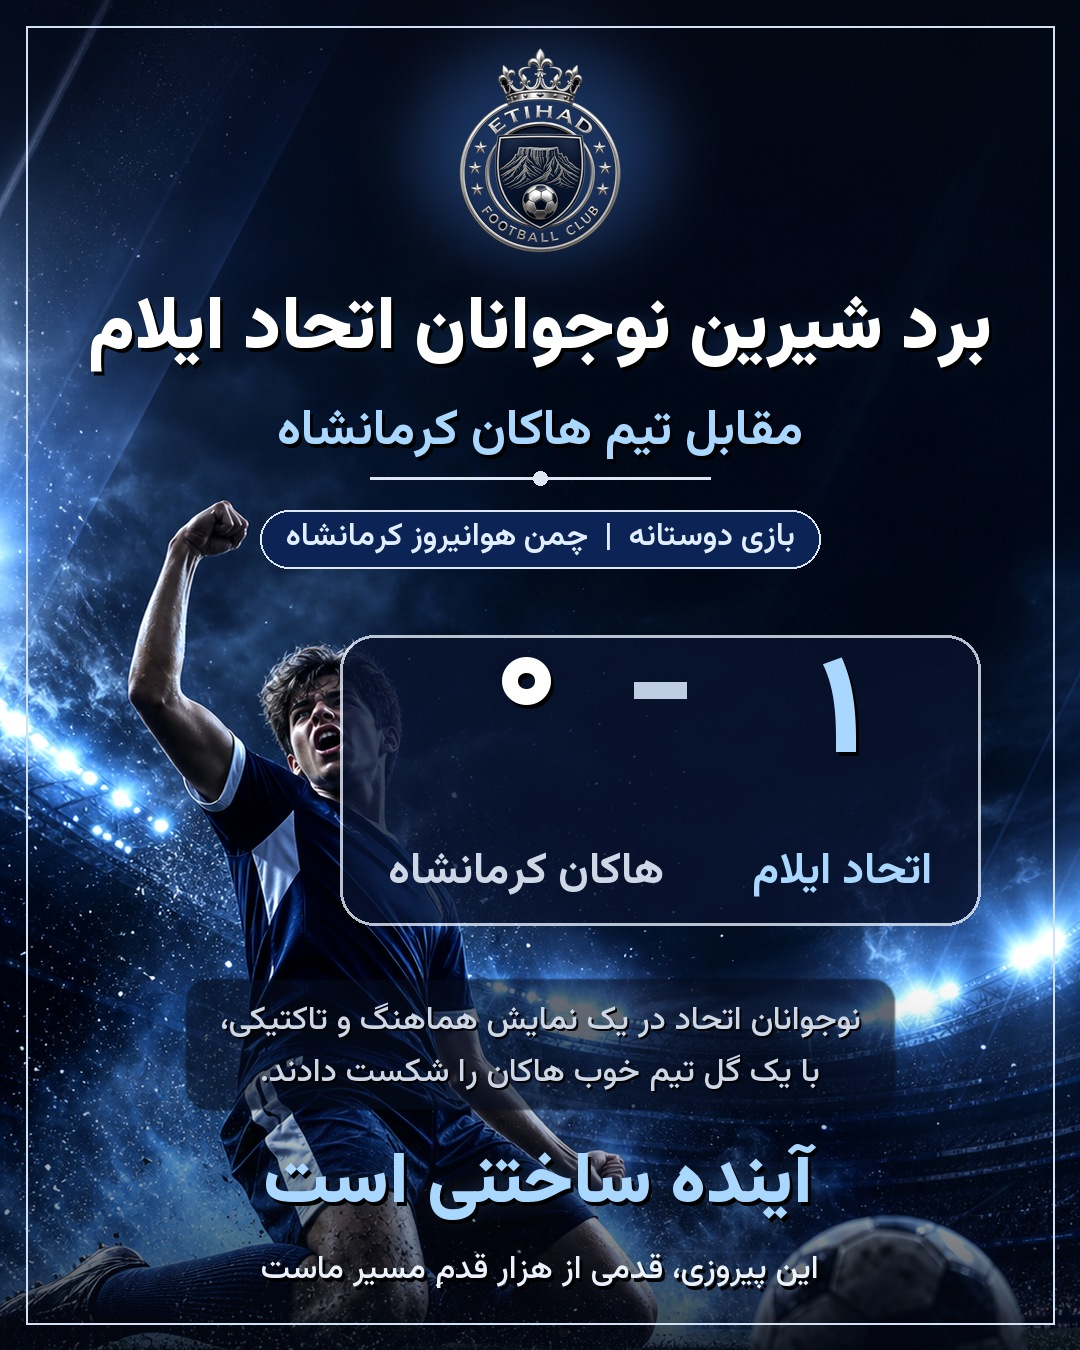
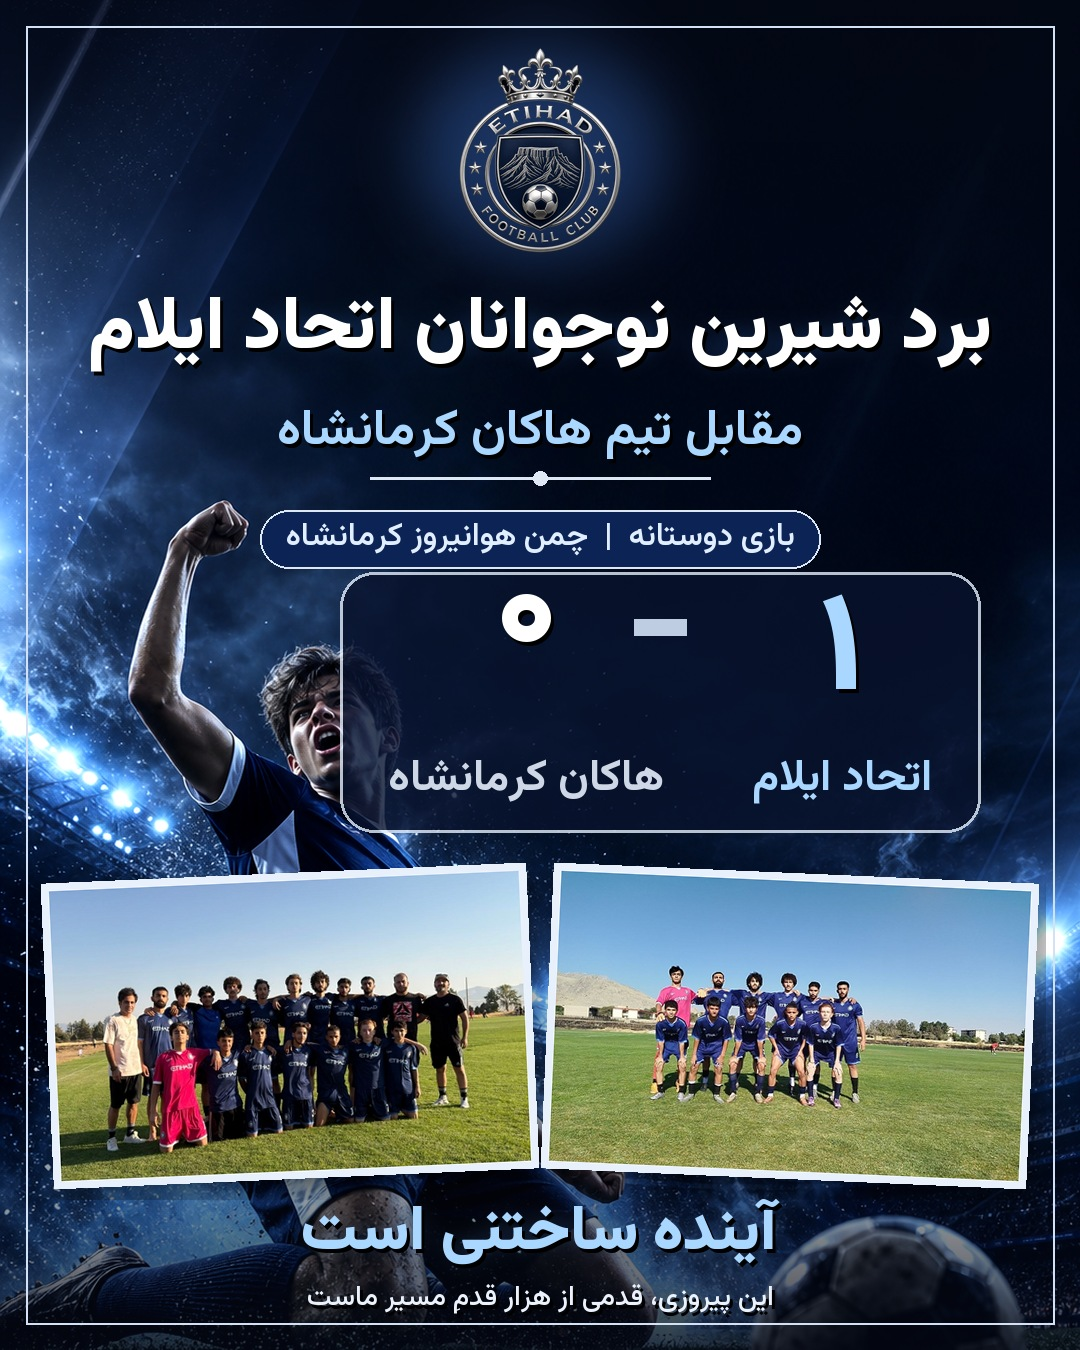
Final poster with real team photos

diff --git a/poster/make_poster.py b/poster/make_poster.py
@@ -111,7 +111,7 @@ PHOTO_MODE = len(photo_files) >= 1
 
 # ---------- score plate ----------
 cx = 660
-cy = 690 if PHOTO_MODE else 780
+cy = 702 if PHOTO_MODE else 780
 plate_w = 640
 plate_h = 260 if PHOTO_MODE else 290
 px0, py0 = cx - plate_w / 2, cy - plate_h / 2
@@ -170,7 +170,7 @@ if PHOTO_MODE:
         sh = sh.filter(ImageFilter.GaussianBlur(10))
         return card, sh
 
-    py = 850
+    py = 862
     size = (470, 290)
     if len(photo_files) >= 2:
         specs = [(photo_files[0], 290, 2.5), (photo_files[1], 790, -2.5)]
